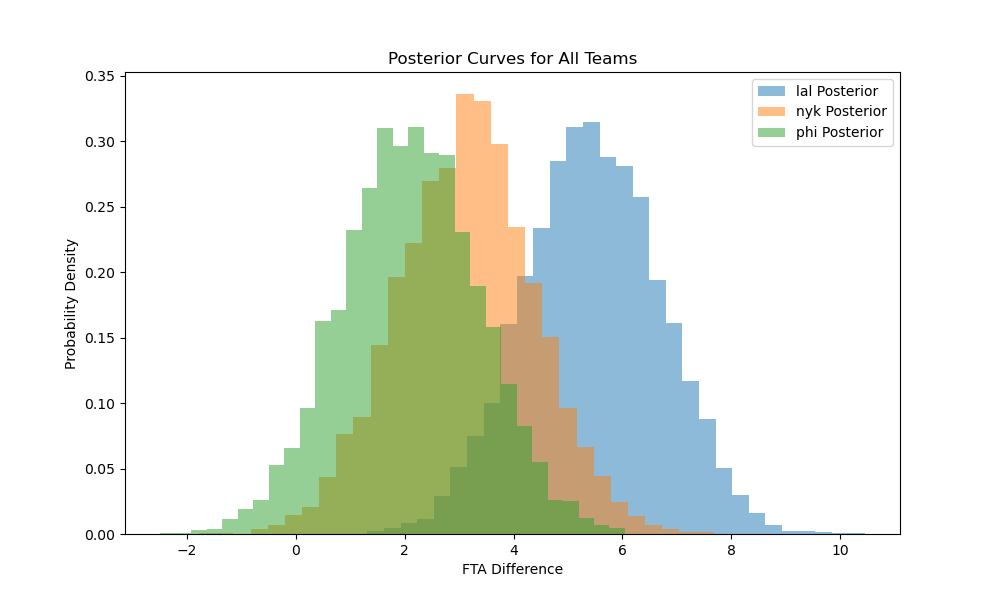
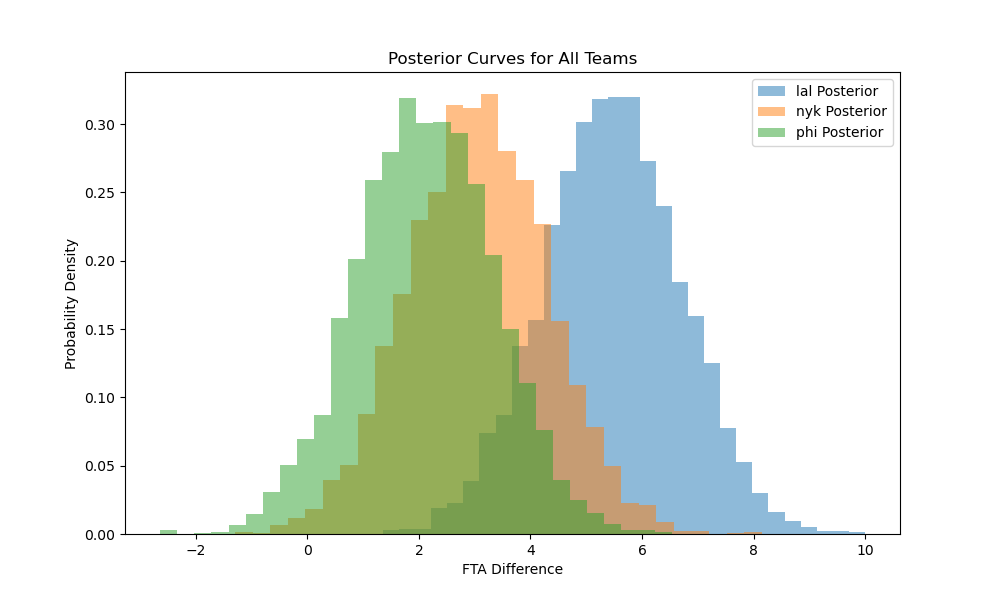
free throw blog post update

diff --git a/_posts/free_throw_2024/01_team_data.py b/_posts/free_throw_2024/01_team_data.py
@@ -231,3 +231,34 @@ plt.ylabel('Probability Density')
 plt.legend()
 plt.savefig(image_path + '/posterior_total_hist.png')
 plt.show()
+
+# Now let's calculate posterior probabilities for the lakers:
+# Calculate the posterior probability that the Lakers have a positive free throw attempt difference
+# Index of the Lakers in the teams of interest list
+lakers_index = teams_interest.index('lal')
+# Get posterior samples for the Lakers
+lakers_posterior_samples = posterior_samples_all_teams[lakers_index]
+# Calculate the posterior probability that the Lakers have a positive free throw attempt difference
+posterior_probability_positive = np.mean(lakers_posterior_samples > 0)
+print("Posterior Probability that the Lakers have a Positive Free Throw Attempt Difference:", posterior_probability_positive)
+print(prior_std)
+posterior_probability_one_std = np.mean(lakers_posterior_samples > prior_mean + prior_std)
+print("Posterior Probability that the Lakers have a Free Throw Attempt Difference More than One Standard Deviation Above 0:", posterior_probability_one_std)
+posterior_probability_two_std = np.mean(lakers_posterior_samples > prior_mean + 2*prior_std)
+print("Posterior Probability that the Lakers have a Free Throw Attempt Difference More than Two Standard Deviations Above 0:", posterior_probability_two_std)
+posterior_probability_nyk = np.mean(lakers_posterior_samples > master_team[master_team['team_name']=='nyk']['fta_diff'].mean())
+print("Posterior Probability that the Lakers have a Free Throw Attempt Difference More than the New York Knicks:", posterior_probability_nyk)
+posterior_probability_phi = np.mean(lakers_posterior_samples > master_team[master_team['team_name']=='phi']['fta_diff'].mean())
+print("Posterior Probability that the Lakers have a Free Throw Attempt Difference More than the Philadelphia Sixers:", posterior_probability_phi)
+# Calculate the 5th and 95th percentiles of the posterior samples for the Lakers
+lower_bound_90 = np.percentile(lakers_posterior_samples, 5)
+upper_bound_90 = np.percentile(lakers_posterior_samples, 95)
+print("Bayesian Confidence Interval (90%) for Lakers' Posterior Curve:")
+print("Lower Bound:", lower_bound_90)
+print("Upper Bound:", upper_bound_90)
+# now let's calculate the 95% confidence interval:
+lower_bound_95 = np.percentile(lakers_posterior_samples, 2.5)
+upper_bound_95 = np.percentile(lakers_posterior_samples, 97.5)
+print("Bayesian Confidence Interval (95%) for Lakers' Posterior Curve:")
+print("Lower Bound:", lower_bound_95)
+print("Upper Bound:", upper_bound_95)

diff --git a/_posts/2024-02-16-free-throws.md b/_posts/2024-02-16-free-throws.md
@@ -28,13 +28,21 @@ The fitted normal curve represents my prior information about the distribution o
 $$
 P(\theta | \text{prior}) = \frac{P(\text{prior} | \theta) P(\theta)}{P(\text{prior})}
 $$
-Next, I use the normal likelihood estimator to find the likelihood estimates and posteriors for the Lakers, Knicks, and Sixers.
+Where $\theta$ is our outcome of interest--the free throw attempt difference for a particular team. Next, I use the normal likelihood estimator to find the likelihood estimates and posteriors for the Lakers, Knicks, and Sixers.
 ![team fixed effects sizes]({{ site.url }}{{ site.baseurl }}//images/blog-free-throw/posterior_lal.png)
 ![team fixed effects sizes]({{ site.url }}{{ site.baseurl }}//images/blog-free-throw/posterior_nyk.png)
 ![team fixed effects sizes]({{ site.url }}{{ site.baseurl }}//images/blog-free-throw/posterior_phi.png)
-Now let's plot a distribution of the samples from each of these posterior curves (I took 5,000 samples from each):
+These curves are interesting, but they largely tell us something we already knew or at the very least suspected: the Lakers, Knicks, and Sixers all receive a much greater advantage in free throw attempts than the rest of the league, and the distribution of their observed values dominates the prior (hence the steepness of the posterior curves).Another way to visualize the posterior curves is to sample repeatedly from them and to plot the distributions for these samples. Thus, I sample from the posterior 5,000 times to create the following histograms:
 ![team fixed effects sizes]({{ site.url }}{{ site.baseurl }}//images/blog-free-throw/posterior_total_hist.png)
-Clearly, the Lakers' distribution of free throw attempt differences skews more heavily to the right than the Knicks of Sixers.
+Clearly, the Lakers' distribution of free throw attempt differences skews more heavily to the right than the Knicks of Sixers, both of which are centered around means significantly to the right of 0, the league average. Again, this is nothing particularly revelatory.
+
+However, using the posterior curves crafted above, we can conduct [analysis](https://stephens999.github.io/fiveMinuteStats/summarize_interpret_posterior.html) such as finding the posterior probability or we can find Bayesian confidence intervals. For this analysis, let's focus on the Lakers, who appear to receive the most significant advantage in free throw attempts. 
+
+Let's begin with calculating the posterior probability that $\theta_{\text{lal}} > 0$, since 0 is the center of the league's total distribution of $\theta$. The probability, as we might expect from the graphs above, is 100%. What about greater than one standard deviation above 0? The probability of that is merely 0.12%, and the probability of it being greater than two standard deviations above 0 is 0%. Finally, the posterior probability that the Lakers shoot more free throws than the Knicks' mean is 96.84% and for the Sixers' mean is 99.78%. Now let's compute a Bayesian confidence interval; at a 90% confidence level, the interval is (3.50,7.48) and at 95%, the interval is (3.06,7.85). Clearly, we can say *with a great deal of confidence* that the Lakers have a greater free throw attempt advantage than the rest of the league.
+
+This approach suggests that there *is* some obvious advantage for big-market teams, in particular for the Lakers, Knicks, and Sixers. However, there are some shortcomings to this approach: the team data I've used for my analysis includes only the most basic information about shooting patterns--in fact, it only tells me whether a field goal attempt was a 2-pointer or a 3-pointer. And although in my regression analysis above, I included rebounds as a proxy for a team's physical domination of the paint, that's an imperfect measure. Ideally, I would be able to control for the distribution of 2-point field attempts by distance from the basket--the assumption being that shoots within 0-3 feet of the basketball are much likelier to draw fouls than shoots attempted 16 feet from the basket. Unfortunately, that data is only available for individual shooters.
+
+Thus, in a future blog post I'll hone in on individual players; if I look at individual players' careers who played for the Lakers as well as other NBA teams, I can control for shooting patterns (specifically the distance from their basket of their average 2 point field attempt), age, and winning percentage and attempt to isolate a possible 'Los Angeles Premium' for free throw attempts. I will also derive the posterior curves for selected current Los Angeles players (most importantly Lebron James and Anthony Davis), using their past seasons' free throw attempt data as prior and their free throw attempts while in a Lakers uniform as the parameter of interest. 
 
 *Data is taken from [Basketball Reference](https://www.basketball-reference.com/).*
 
